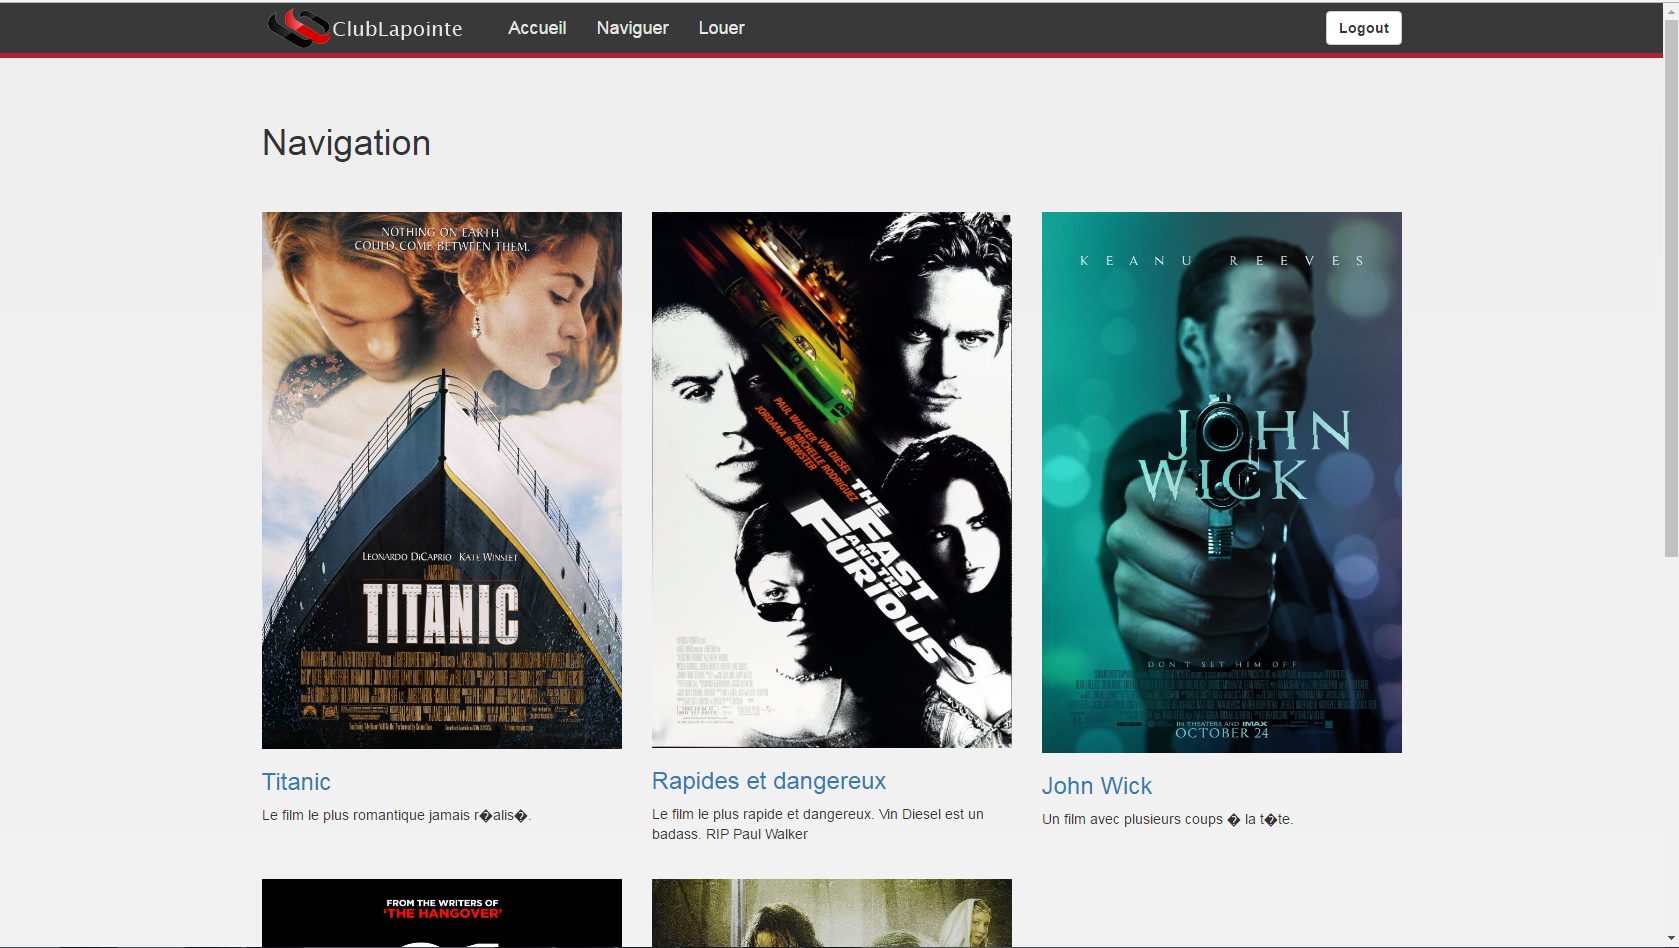
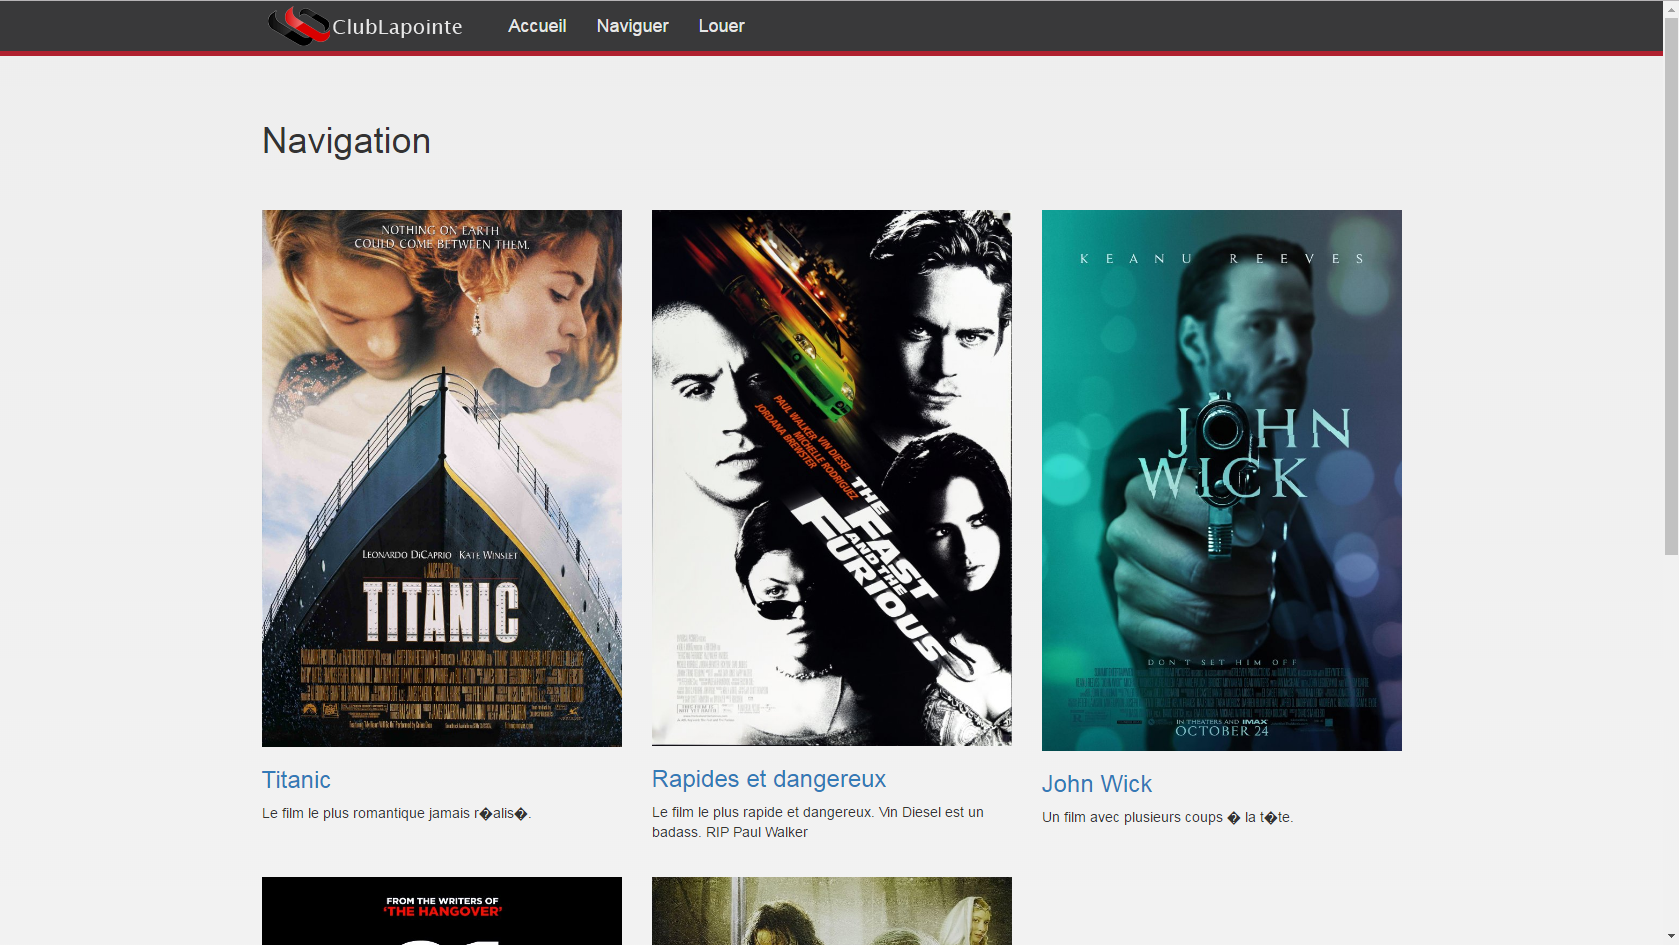
adaptation du changement du fichier produitDAO en classe

diff --git a/presentationLayer/navigation.php b/presentationLayer/navigation.php
@@ -12,7 +12,8 @@
 		<?php
 		include('../dataAccessLayer/ObjetDAO/ProduitDAO.php');
 		include('../dataAccessLayer/ObjetVO/ProduitVO.php'); 
-		$liste = getListe();
+		$dao = new ProduitDAO();
+		$liste = $dao->getListe();
 		
 		//print_r($liste);
 		
